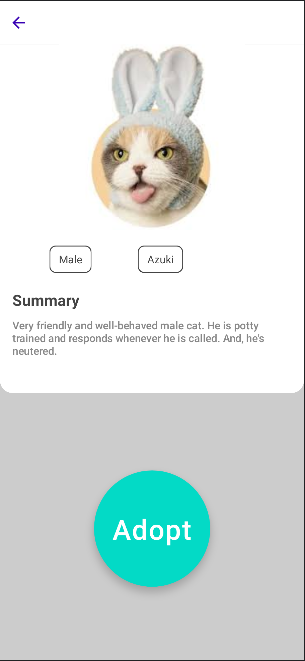
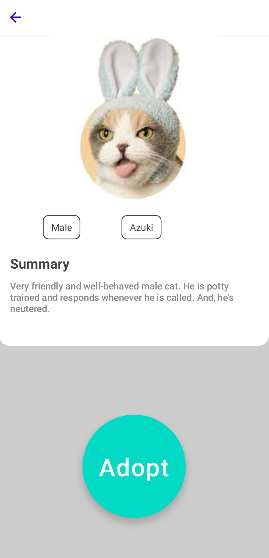
updated the readme again

diff --git a/README.md b/README.md
@@ -18,7 +18,7 @@ PetAdoption allows you to select one of the kitties in the list to adopt.
 
 ## :camera_flash: Screenshots
 <!-- You can add more screenshots here if you like -->
-<img src="/results/screenshot_1.png" width="260">&emsp;<img src="/results/screenshot_2.png" width="260">
+<img src="/results/screenshot_1.png" width="260" height="500">&emsp;<img src="/results/screenshot_2.png" width="260" height="500">
 
 ## License
 ```
